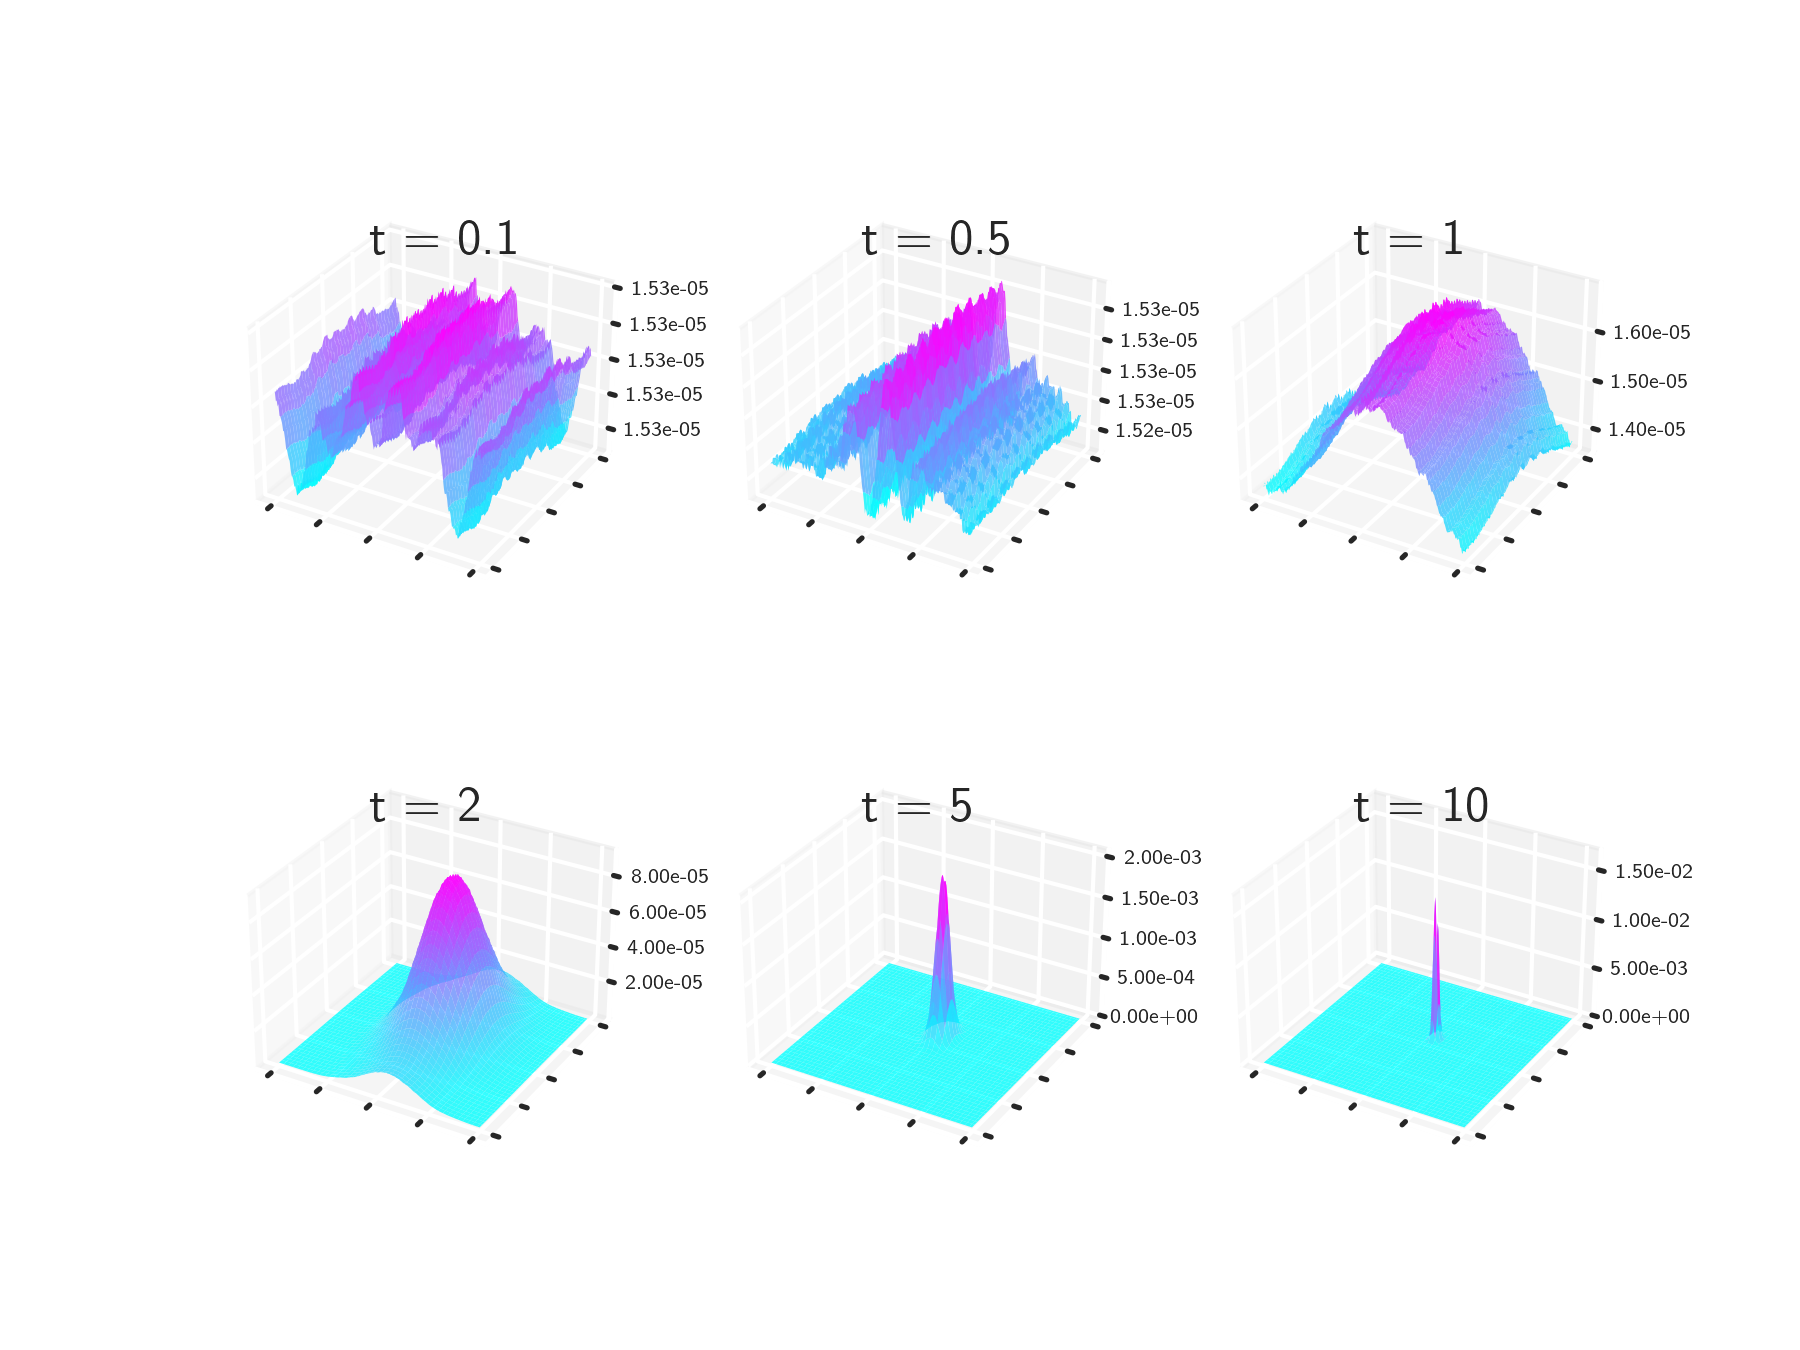
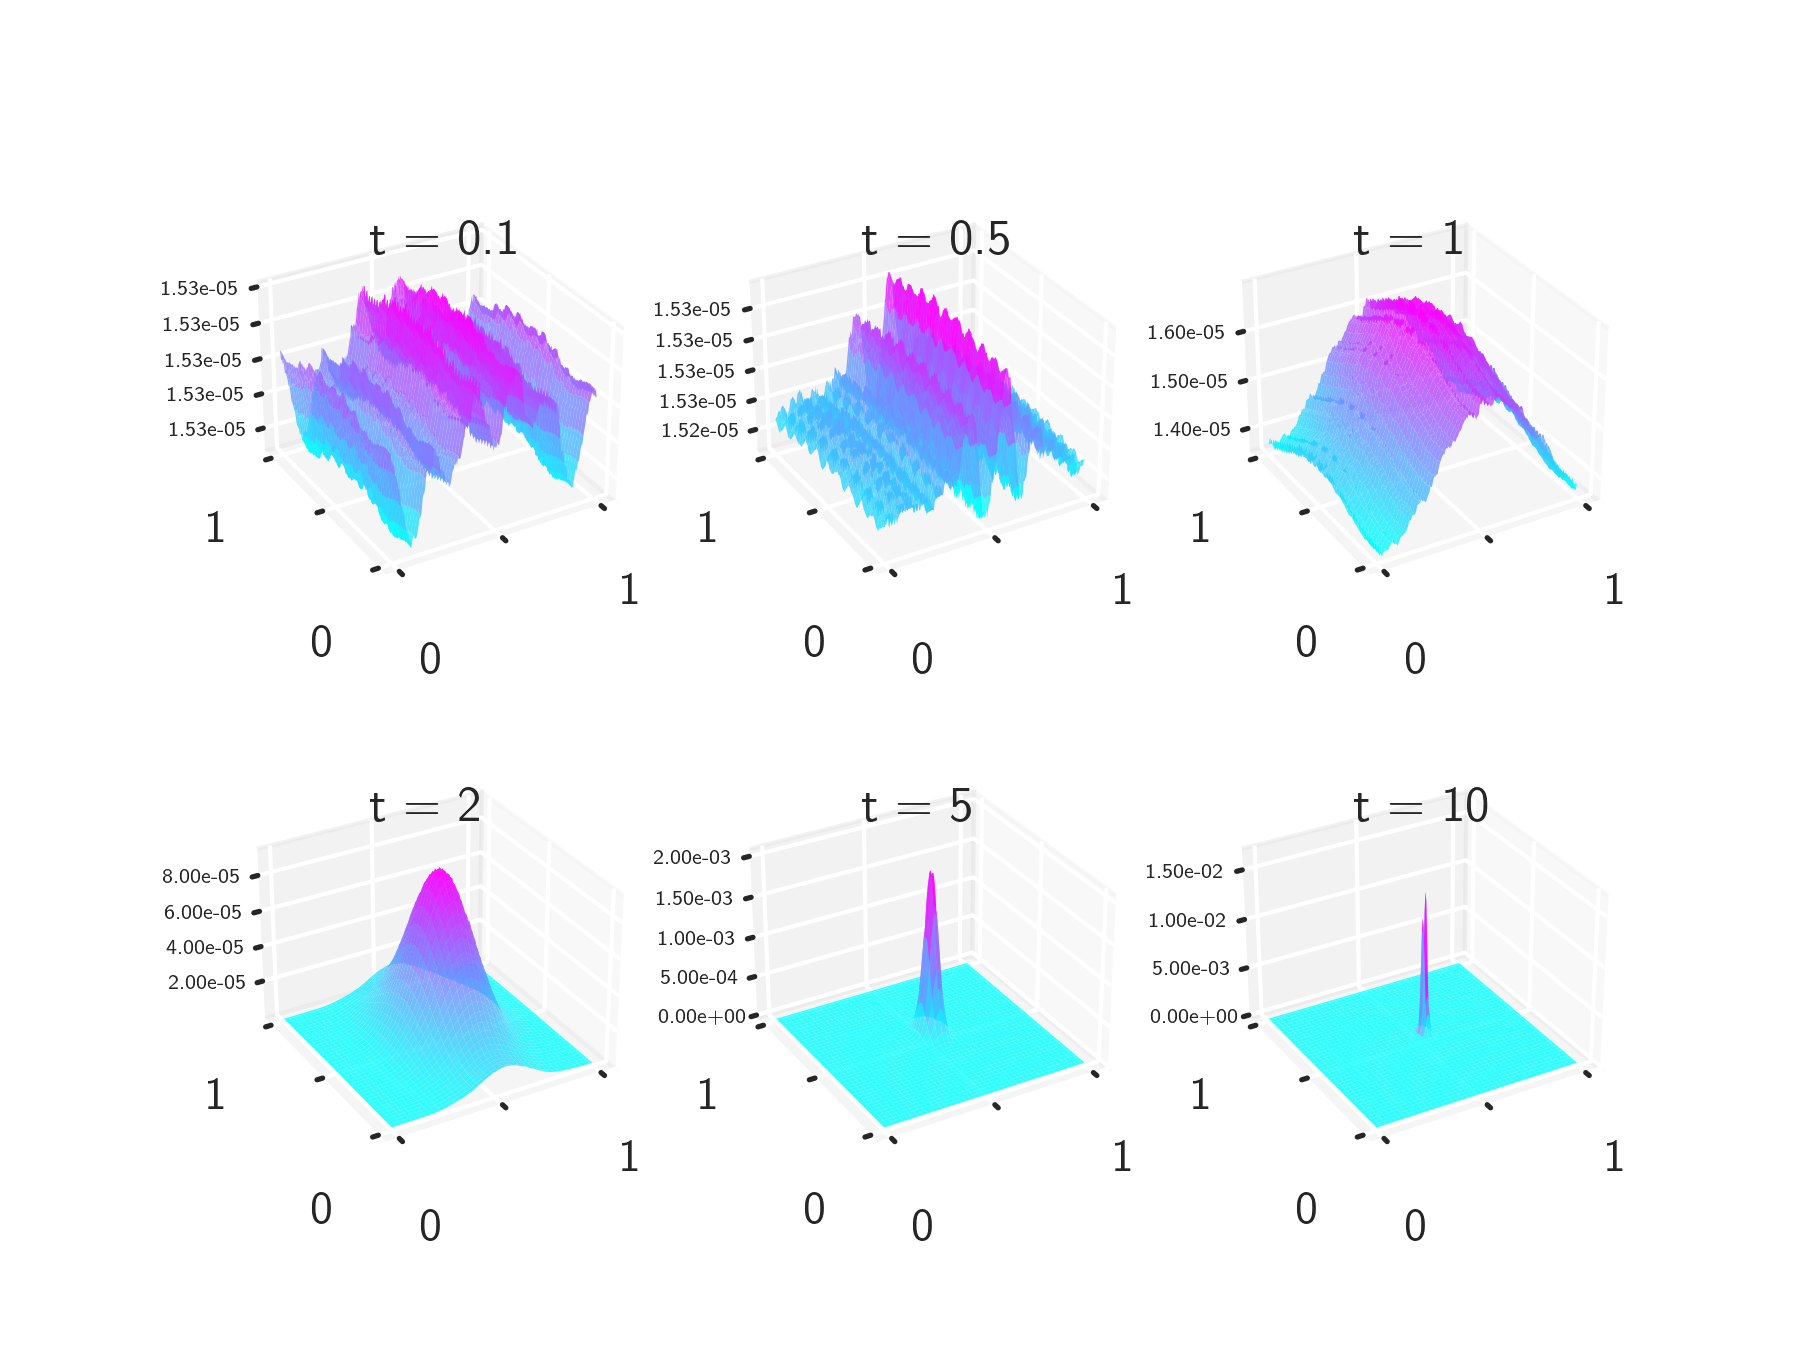
rotate camera angle in fig3B

diff --git a/plot/fig3/levy_three_phase_plot.py b/plot/fig3/levy_three_phase_plot.py
@@ -82,6 +82,7 @@ for instance in instances:
             density = (wave_fn * wave_fn.conj()).real
 
             ax = fig.add_subplot(gs[row, col], projection="3d")
+            ax.view_init(elev=30, azim=-120)
             ax.set_facecolor("white")
 
             surf = ax.plot_surface(X, Y, density,
@@ -92,17 +93,17 @@ for instance in instances:
 
             ax.text2D(0.35, 0.85, f"t = {t}", transform=ax.transAxes)
 
-            ax.set_xticks([0, 0.25, 0.5, 0.75, 1])
-            ax.set_xticklabels([])
+            ax.set_xticks([0, 0.5, 1])
+            ax.set_xticklabels(['0','','1'])
 
-            ax.set_yticks([0, 0.25, 0.5, 0.75, 1])
-            ax.set_yticklabels([])
+            ax.set_yticks([0, 0.5, 1])
+            ax.set_yticklabels(['0','','1'])
 
             ax.zaxis.set_major_formatter("{x:.2e}")
             ax.tick_params('z', labelsize=5, pad=0)
 
     plt.savefig(f"figures/{instance}_panel_B.png", dpi=300)
-    # plt.savefig(f"figures/{instance}_three_phase.svg")
+    #plt.savefig(f"figures/{instance}_three_phase.svg")
     plt.show()
     #plt.clf()
 
